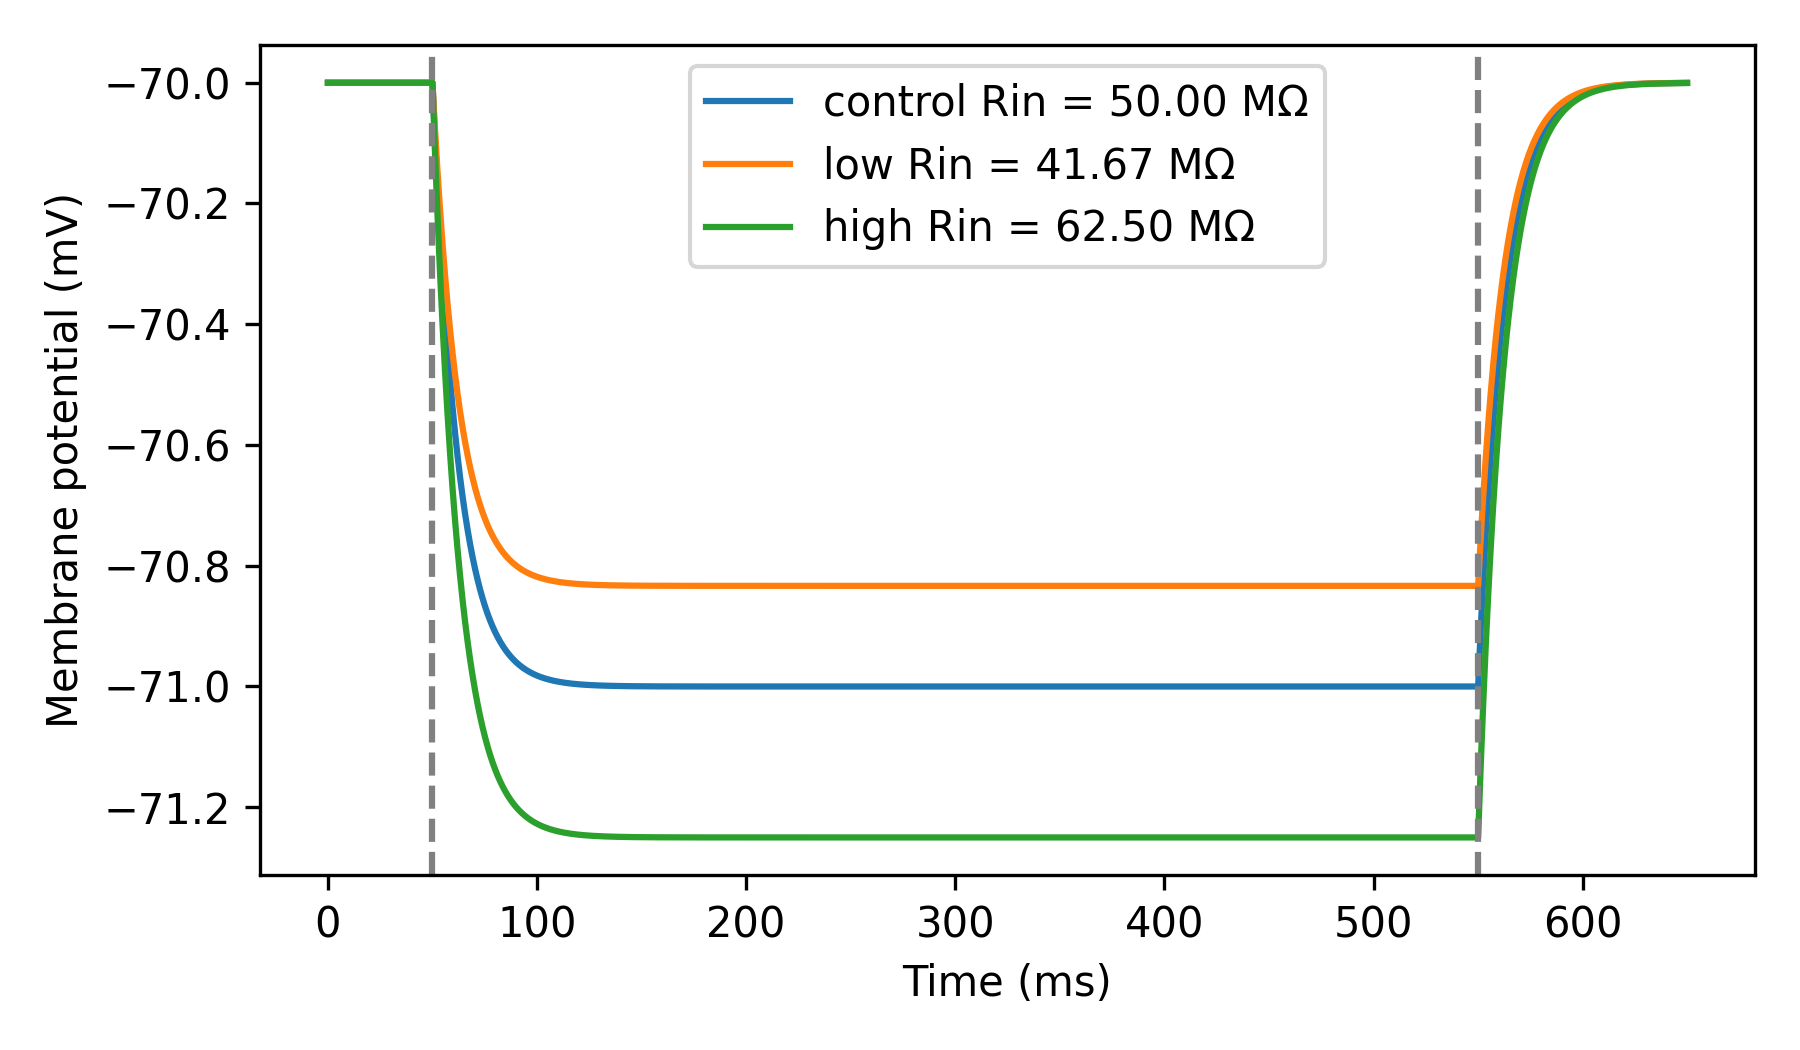
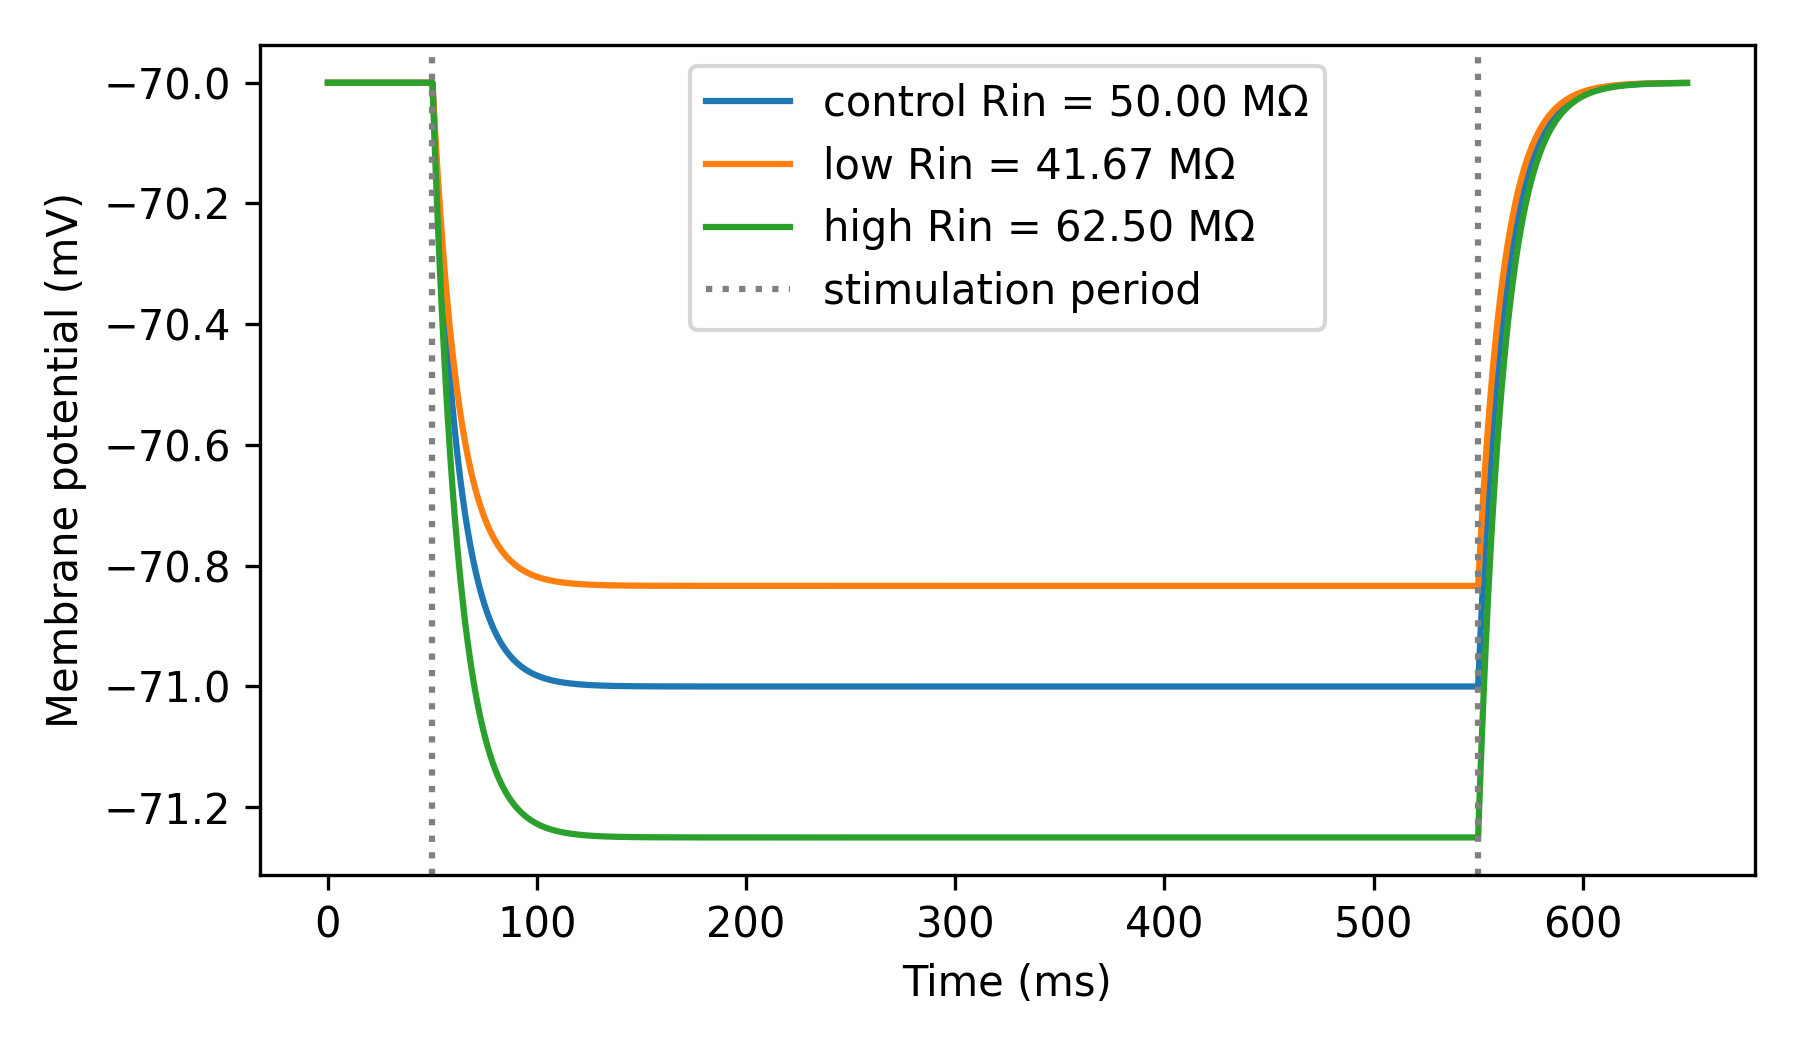
Finished all validation examples

Changed region(s): [[0.3733, 0.2438, 0.7467, 0.3352]]

diff --git a/examples_new/val_dendritic_attenuation.py b/examples_new/val_dendritic_attenuation.py
@@ -12,32 +12,65 @@ properties of their dendritic trees. (also see `Tran-van-Minh et al, 2015
 
 In this example, we show:
 
-- How to measure thr distance-dependent voltage attenuation of a long current
-pulse injected at the soma.
+- How to measure the dendritic, distance-dependent voltage attenuation of a long
+  current pulse injected at the soma.
 
 """
 
 import brian2 as b
-from brian2.units import cm, ms, mV, nS, ohm, pF, uF, um, uS
+from brian2.units import cm, ms, mV, ohm, pA, pF, uF, um, uS
 
 from dendrify import Dendrite, NeuronModel, Soma
 
 b.prefs.codegen.target = 'numpy' # faster for simple simulations
 
 # Create neuron model
-soma = Soma('soma', length=30*um, diameter=30*um)
-trunk = Dendrite('trunk', length=100*um, diameter=2*um)
-prox = Dendrite('prox', length=100*um, diameter=1.25*um)
-dist = Dendrite('dist', length=100*um, diameter=0.8*um)
+soma = Soma('soma', length=25*um, diameter=25*um)
+trunk = Dendrite('trunk', length=100*um, diameter=1.5*um)
+prox = Dendrite('prox', length=100*um, diameter=1.2*um)
+dist = Dendrite('dist', length=100*um, diameter=1*um)
 
 # Create a neuron group
 connections = [(soma, trunk), (trunk, prox), (prox, dist)]
-model = NeuronModel(connections, cm=1*uF/(cm**2), gl=40*uS/(cm**2),
-                    v_rest=-70*mV, r_axial=150*ohm*cm)
-# neuron = model.make_neurongroup(1, method='euler')
+model = NeuronModel(connections, cm=1*uF/(cm**2), gl=50*uS/(cm**2),
+                    v_rest=-70*mV, r_axial=400*ohm*cm)
+neuron = model.make_neurongroup(1, method='euler') # no spiking for simplicity
 
 # Monitor voltages
-
-# M = b.StateMonitor(neuron, ['V_soma', 'V_trunk', 'V_prox', 'V_dist'], record=True)
+M = b.StateMonitor(neuron, ['V_soma', 'V_trunk', 'V_prox', 'V_dist'],
+                   record=True)
 
 # Run simulation
+b.run(20*ms)
+neuron.I_ext_soma = -10*pA
+b.run(500*ms)
+neuron.I_ext_soma = 0*pA
+b.run(100*ms)
+
+# Analyse and plot results
+time = M.t/ms
+vs = M.V_soma[0]/mV
+vt = M.V_trunk[0]/mV
+vp = M.V_prox[0]/mV
+vd = M.V_dist[0]/mV
+voltages = [vs, vt, vp, vd]
+delta_v = [min(v) - v[0] for v in voltages]
+ratio = [i/delta_v[0] for i in delta_v]
+distances = range(0, 400, 100)
+names = ['soma', 'trunk', 'prox', 'dist']
+
+fig, axes = b.subplots(1, 2, figsize=(6, 3))
+ax0, ax1 = axes
+for i, v in enumerate(voltages):
+    ax0.plot(time, v, label=names[i])
+ax0.set_ylabel('Voltage (mV)')
+ax0.set_xlabel('Time (ms)')
+ax0.legend()
+
+ax1.plot(distances, ratio, 'ko-', ms=4)
+ax1.set_ylabel(r'$dV_{dend}$ / $dV_{soma}$')
+ax1.set_xlabel('Distance from soma (μm)')
+ax1.set_yticks(b.arange(.7, 1, .1))
+
+fig.tight_layout()
+b.show()

diff --git a/examples_new/val_rinput.py b/examples_new/val_rinput.py
@@ -5,12 +5,19 @@ Input resistance
 
 Description
 -----------
-In this example, we show how to estimate a neuron model's input resistance
-``Rin``, a useful metric of its excitability. This is done by injecting a small
-current pulse ``I`` into the neuron and measuring the steady-state change in its
+Input resistance (``Rin``) determines how much a neuron depolarizes in response
+to a steady current. It is a useful metric of a neuron's excitability; neurons
+with high ``Rin`` depolarize more in response to a given current than neurons
+with low ``Rin``. ``Rin`` is often measured experimentally by injecting a small
+current ``I`` into the neuron and measuring the steady-state change in its
 membrane potential ``ΔV``. Using Ohm's law, ``Rin`` can be estimated as
-``Rin = ΔV/I``. Bellow, we show how ``Rin`` is affected by changes in the neuron's
-membrane leak conductance ``gl``. 
+``Rin = ΔV/I``.
+
+In this example we show:
+
+- How to calculate ``Rin`` in a point neuron model.
+- How ``Rin`` is affected by changes in the neuron's membrane leak conductance
+  ``gl``. 
 
 Note: We also scale the neuron's membrane capacitance ``cm`` to maintain a
 constant membrane time constant (``τm = cm/gl``).
@@ -71,8 +78,8 @@ b.plot(low_rin_monitor.t/ms, low_rin_monitor.V[0]/mV,
        label='low Rin = {:.2f} MΩ'.format(Rin_low/ Mohm))
 b.plot(high_rin_monitor.t/ms, high_rin_monitor.V[0]/mV,
        label='high Rin = {:.2f} MΩ'.format(Rin_high/ Mohm))
-b.axvline(50, ls='--', c='gray')
-b.axvline(550, ls='--', c='gray')
+b.axvline(50, ls=':', c='gray', label='stimulation period')
+b.axvline(550, ls=':', c='gray')
 b.xlabel('Time (ms)')
 b.ylabel('Membrane potential (mV)')
 b.legend()

diff --git a/docs_sphinx/source/examples/val_dendritic_attenuation.rst b/docs_sphinx/source/examples/val_dendritic_attenuation.rst
@@ -9,12 +9,70 @@ properties of their dendritic trees. (also see `Tran-van-Minh et al, 2015
 
 In this example, we show:
 
-- How tor 
+- How to measure the dendritic, distance-dependent voltage attenuation of a long
+  current pulse injected at the soma.
 
 
 
 .. code-block:: python
 
+    import brian2 as b
+    from brian2.units import cm, ms, mV, ohm, pA, pF, uF, um, uS
+    
+    from dendrify import Dendrite, NeuronModel, Soma
+    
+    b.prefs.codegen.target = 'numpy' # faster for simple simulations
+    
+    # Create neuron model
+    soma = Soma('soma', length=25*um, diameter=25*um)
+    trunk = Dendrite('trunk', length=100*um, diameter=1.5*um)
+    prox = Dendrite('prox', length=100*um, diameter=1.2*um)
+    dist = Dendrite('dist', length=100*um, diameter=1*um)
+    
+    # Create a neuron group
+    connections = [(soma, trunk), (trunk, prox), (prox, dist)]
+    model = NeuronModel(connections, cm=1*uF/(cm**2), gl=50*uS/(cm**2),
+                        v_rest=-70*mV, r_axial=400*ohm*cm)
+    neuron = model.make_neurongroup(1, method='euler') # no spiking for simplicity
+    
+    # Monitor voltages
+    M = b.StateMonitor(neuron, ['V_soma', 'V_trunk', 'V_prox', 'V_dist'],
+                       record=True)
+    
+    # Run simulation
+    b.run(20*ms)
+    neuron.I_ext_soma = -10*pA
+    b.run(500*ms)
+    neuron.I_ext_soma = 0*pA
+    b.run(100*ms)
+    
+    # Analyse and plot results
+    time = M.t/ms
+    vs = M.V_soma[0]/mV
+    vt = M.V_trunk[0]/mV
+    vp = M.V_prox[0]/mV
+    vd = M.V_dist[0]/mV
+    voltages = [vs, vt, vp, vd]
+    delta_v = [min(v) - v[0] for v in voltages]
+    ratio = [i/delta_v[0] for i in delta_v]
+    distances = range(0, 400, 100)
+    names = ['soma', 'trunk', 'prox', 'dist']
+    
+    fig, axes = b.subplots(1, 2, figsize=(6, 3))
+    ax0, ax1 = axes
+    for i, v in enumerate(voltages):
+        ax0.plot(time, v, label=names[i])
+    ax0.set_ylabel('Voltage (mV)')
+    ax0.set_xlabel('Time (ms)')
+    ax0.legend()
+    
+    ax1.plot(distances, ratio, 'ko-', ms=4)
+    ax1.set_ylabel(r'$dV_{dend}$ / $dV_{soma}$')
+    ax1.set_xlabel('Distance from soma (μm)')
+    ax1.set_yticks(b.arange(.7, 1, .1))
+    
+    fig.tight_layout()
+    b.show()
 
 
 .. image:: _static/val_dendritic_attenuation.png

diff --git a/docs_sphinx/source/examples/val_rinput.rst b/docs_sphinx/source/examples/val_rinput.rst
@@ -2,12 +2,19 @@ Input resistance
 ================
 
 
-In this example, we show how to estimate a neuron model's input resistance
-``Rin``, a useful metric of its excitability. This is done by injecting a small
-current pulse ``I`` into the neuron and measuring the steady-state change in its
+Input resistance (``Rin``) determines how much a neuron depolarizes in response
+to a steady current. It is a useful metric of a neuron's excitability; neurons
+with high ``Rin`` depolarize more in response to a given current than neurons
+with low ``Rin``. ``Rin`` is often measured experimentally by injecting a small
+current ``I`` into the neuron and measuring the steady-state change in its
 membrane potential ``ΔV``. Using Ohm's law, ``Rin`` can be estimated as
-``Rin = ΔV/I``. Bellow, we show how ``Rin`` is affected by changes in the neuron's
-membrane leak conductance ``gl``. 
+``Rin = ΔV/I``.
+
+In this example we show:
+
+- How to calculate ``Rin`` in a point neuron model.
+- How ``Rin`` is affected by changes in the neuron's membrane leak conductance
+  ``gl``. 
 
 Note: We also scale the neuron's membrane capacitance ``cm`` to maintain a
 constant membrane time constant (``τm = cm/gl``).
@@ -70,8 +77,8 @@ constant membrane time constant (``τm = cm/gl``).
            label='low Rin = {:.2f} MΩ'.format(Rin_low/ Mohm))
     b.plot(high_rin_monitor.t/ms, high_rin_monitor.V[0]/mV,
            label='high Rin = {:.2f} MΩ'.format(Rin_high/ Mohm))
-    b.axvline(50, ls='--', c='gray')
-    b.axvline(550, ls='--', c='gray')
+    b.axvline(50, ls=':', c='gray', label='stimulation period')
+    b.axvline(550, ls=':', c='gray')
     b.xlabel('Time (ms)')
     b.ylabel('Membrane potential (mV)')
     b.legend()

diff --git a/docs_sphinx/source/examples/validation.rst b/docs_sphinx/source/examples/validation.rst
@@ -9,4 +9,4 @@ Validation tests
    val_fi_curve
    val_tau
    val_dendritic_io
-   val_dendritic attenuation
+   val_dendritic_attenuation
